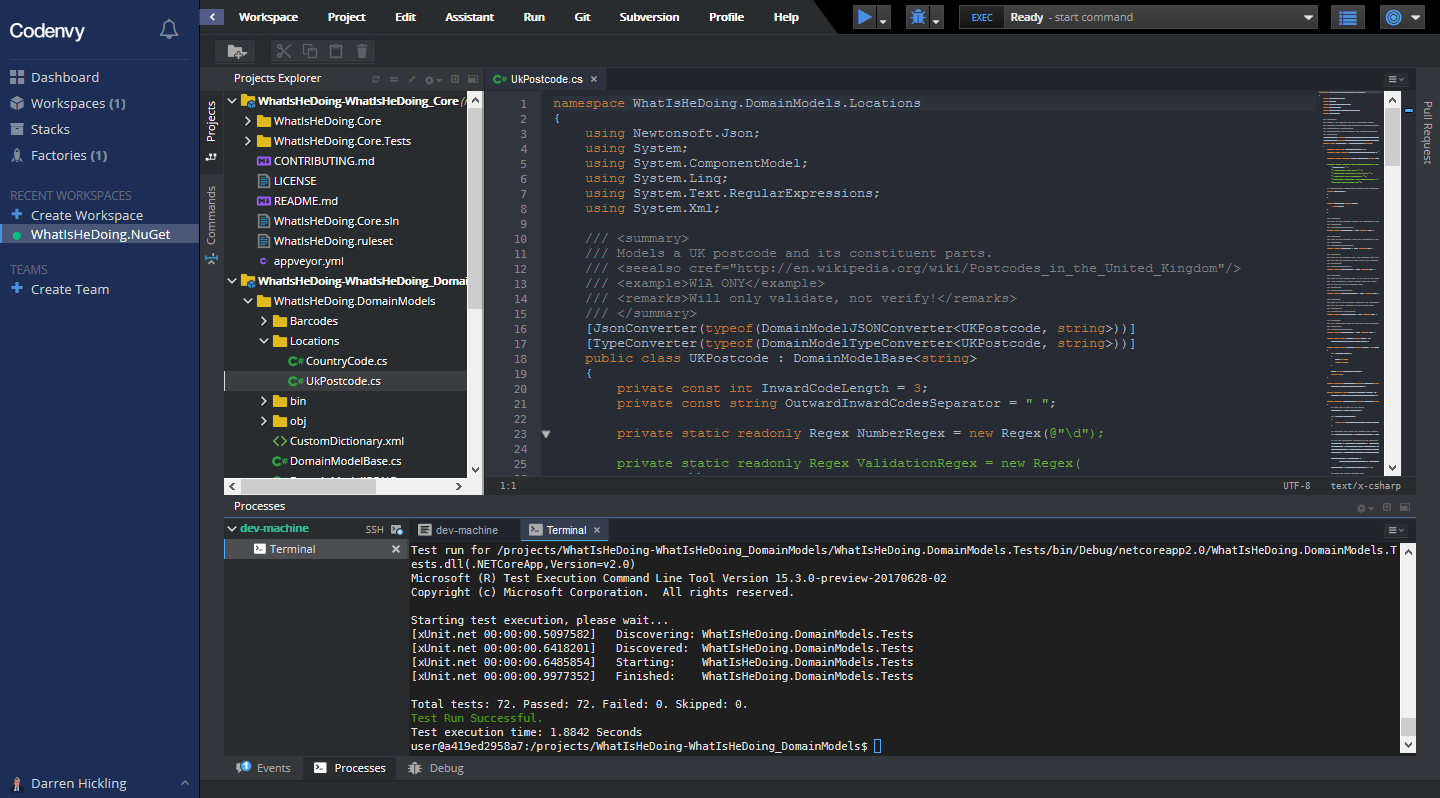
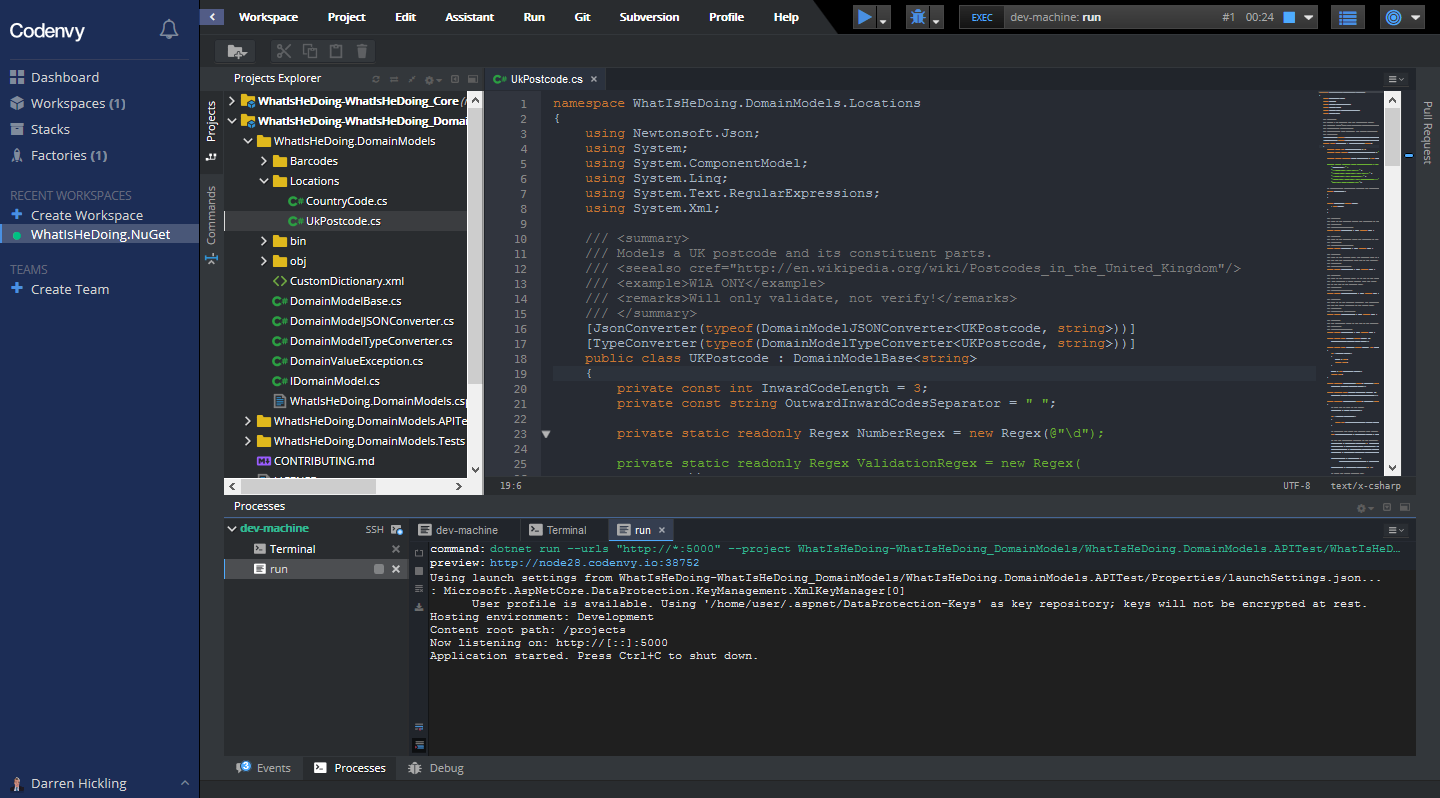
* Adding Travis CI badge and Codenvy Run feature explanation * Using command-line overrides in Kestrel for Codenvy testing

diff --git a/WhatIsHeDoing.DomainModels.APITest/Program.cs b/WhatIsHeDoing.DomainModels.APITest/Program.cs
@@ -2,6 +2,7 @@ namespace WhatIsHeDoing.DomainModels.APITest
 {
     using Microsoft.AspNetCore;
     using Microsoft.AspNetCore.Hosting;
+    using Microsoft.Extensions.Configuration;
 
     public class Program
     {
@@ -9,6 +10,7 @@ namespace WhatIsHeDoing.DomainModels.APITest
 
         public static IWebHost BuildWebHost(string[] args) => WebHost
             .CreateDefaultBuilder(args)
+            .UseConfiguration(new ConfigurationBuilder().AddCommandLine(args).Build())
             .UseKestrel(opt => opt.AddServerHeader = false)
             .UseStartup<Startup>()
             .Build();

diff --git a/README.md b/README.md
@@ -1,13 +1,14 @@
 # WhatIsHeDoing.DomainModels
 
-[![NuGet](https://img.shields.io/nuget/v/WhatIsHeDoing.DomainModels.svg)](https://www.nuget.org/packages/WhatIsHeDoing.DomainModels/)
-[![NuGet](https://img.shields.io/nuget/dt/WhatIsHeDoing.DomainModels.svg)](https://www.nuget.org/packages/WhatIsHeDoing.DomainModels/)
-[![Build status](https://ci.appveyor.com/api/projects/status/52xl0ifv8cfgjj4a?svg=true)](https://ci.appveyor.com/project/DarrenHickling/whatishedoing-domainmodels-j4bij)
-[![Tests passing](https://img.shields.io/appveyor/tests/DarrenHickling/whatishedoing-domainmodels-j4bij.svg)](https://ci.appveyor.com/project/DarrenHickling/whatishedoing-domainmodels-j4bij)
-[![codecov](https://codecov.io/gh/WhatIsHeDoing/WhatIsHeDoing.DomainModels/branch/master/graph/badge.svg)](https://codecov.io/gh/WhatIsHeDoing/WhatIsHeDoing.DomainModels)
-[![Dependency Status](https://dependencyci.com/github/WhatIsHeDoing/WhatIsHeDoing.DomainModels/badge)](https://dependencyci.com/github/WhatIsHeDoing/WhatIsHeDoing.DomainModels)
-[![Beerpay](https://beerpay.io/WhatIsHeDoing/WhatIsHeDoing.DomainModels/badge.svg?style=flat)](https://beerpay.io/WhatIsHeDoing/WhatIsHeDoing.DomainModels)
-[![Codenvy badge](https://codenvy.io/factory/resources/codenvy-contribute.svg)](https://codenvy.io/f?name=nuget&user=whatishedoing 'Start development on Codenvy')
+[![NuGet package](https://img.shields.io/nuget/v/WhatIsHeDoing.DomainModels.svg)][nuget]
+[![NuGet downloads](https://img.shields.io/nuget/dt/WhatIsHeDoing.DomainModels.svg)][nuget]
+[![AppVeyor Windows build status](https://ci.appveyor.com/api/projects/status/52xl0ifv8cfgjj4a?svg=true)][appveyor]
+[![Test status](https://img.shields.io/appveyor/tests/DarrenHickling/whatishedoing-domainmodels-j4bij.svg)][appveyor]
+[![Codecov code coverage](https://codecov.io/gh/WhatIsHeDoing/WhatIsHeDoing.DomainModels/branch/master/graph/badge.svg)](https://codecov.io/gh/WhatIsHeDoing/WhatIsHeDoing.DomainModels)
+[![Travis CI Linux build Status](https://travis-ci.org/WhatIsHeDoing/WhatIsHeDoing.DomainModels.svg)][travis]
+[![Dependency status](https://dependencyci.com/github/WhatIsHeDoing/WhatIsHeDoing.DomainModels/badge)](https://dependencyci.com/github/WhatIsHeDoing/WhatIsHeDoing.DomainModels)
+[![Beerpay](https://beerpay.io/WhatIsHeDoing/WhatIsHeDoing.DomainModels/badge.svg?style=flat)][beerpay]
+[![Codenvy workspace](https://codenvy.io/factory/resources/codenvy-contribute.svg)][codenvy]
 
 A library of domain models for .NET.
 
@@ -137,7 +138,10 @@ public void StringFormat()
 All contributions are greatly welcomed! Please see the [guidelines][contributing] for more information.
 
 If you are developing locally, pull down this repo and build within Visual Studio (any edition), or
-run `dotnet test` on any platform. Alternatively, simply create a new Codenvy workspace from my [factory][codenvy]!
+run `dotnet test` on any platform; the `master` branch is continuously built on both [Windows][appveyor]
+and [Linux][travis]. Alternatively, simply create a new Codenvy workspace from my [factory][codenvy]!
+You can even run the API test project by simply using the `Run` :arrow_forward: feature; just add `/swagger` to the
+end of the dynamic URL it generates in the terminal.
 
 ![Codenvy workspace](Codenvy-WhatIsHeDoing-NuGet.png)
 
@@ -150,11 +154,14 @@ run `dotnet test` on any platform. Alternatively, simply create a new Codenvy wo
 I'm a huge fan of craft :beers:, so feel free to contribute to more that I can rate on [Untappd][untappd].
 Thank you.
 
-[![Beerpay](https://beerpay.io/WhatIsHeDoing/WhatIsHeDoing.DomainModels/badge.svg?style=beer-square)](https://beerpay.io/WhatIsHeDoing/WhatIsHeDoing.DomainModels)
+[![Beerpay](https://beerpay.io/WhatIsHeDoing/WhatIsHeDoing.DomainModels/badge.svg?style=beer-square)][beerpay]
 
+[appveyor]: https://ci.appveyor.com/project/DarrenHickling/whatishedoing-domainmodels-j4bij
+    "WhatIsHeDoing.DomainModels - AppVeyor [Windows build]"
+[beerpay]: https://beerpay.io/WhatIsHeDoing/WhatIsHeDoing.DomainModels
 [cc1]: https://en.wikipedia.org/wiki/ISO_3166-1_alpha-2
 [cc2]: https://en.wikipedia.org/wiki/ISO_3166-1_alpha-3
-[codenvy]: https://codenvy.io/f?name=nuget&user=whatishedoing
+[codenvy]: https://codenvy.io/f?name=nuget&user=whatishedoing "Start development on Codenvy"
 [contributing]: CONTRIBUTING.md
 [demo]: http://whatishedoingdomainmodels.azurewebsites.net/swagger/
 [EAN]: https://en.wikipedia.org/wiki/International_Article_Number
@@ -165,6 +172,8 @@ Thank you.
 [postcodes]: https://www.townscountiespostcodes.co.uk/postcodes-in-northern-ireland/
     "Postcodes in Northern Ireland | Northern Ireland Postcode Information, UK"
 [royalmail]: https://www.royalmail.com/find-a-postcode "Postcode Finder - Find an Address | Royal Mail Group Ltd"
+[travis]: https://travis-ci.org/WhatIsHeDoing/WhatIsHeDoing.DomainModels
+    "WhatIsHeDoing/WhatIsHeDoing.DomainModels - Travis CI [Linux build]"
 [untappd]: https://untappd.com/user/WhatIsHeDoing
 [whatisdazdoing]: https://twitter.com/WhatIsDazDoing "Darren Hickling (@WhatIsDazDoing) | Twitter"
 [wiki]: https://en.wikipedia.org/wiki/Domain_model
